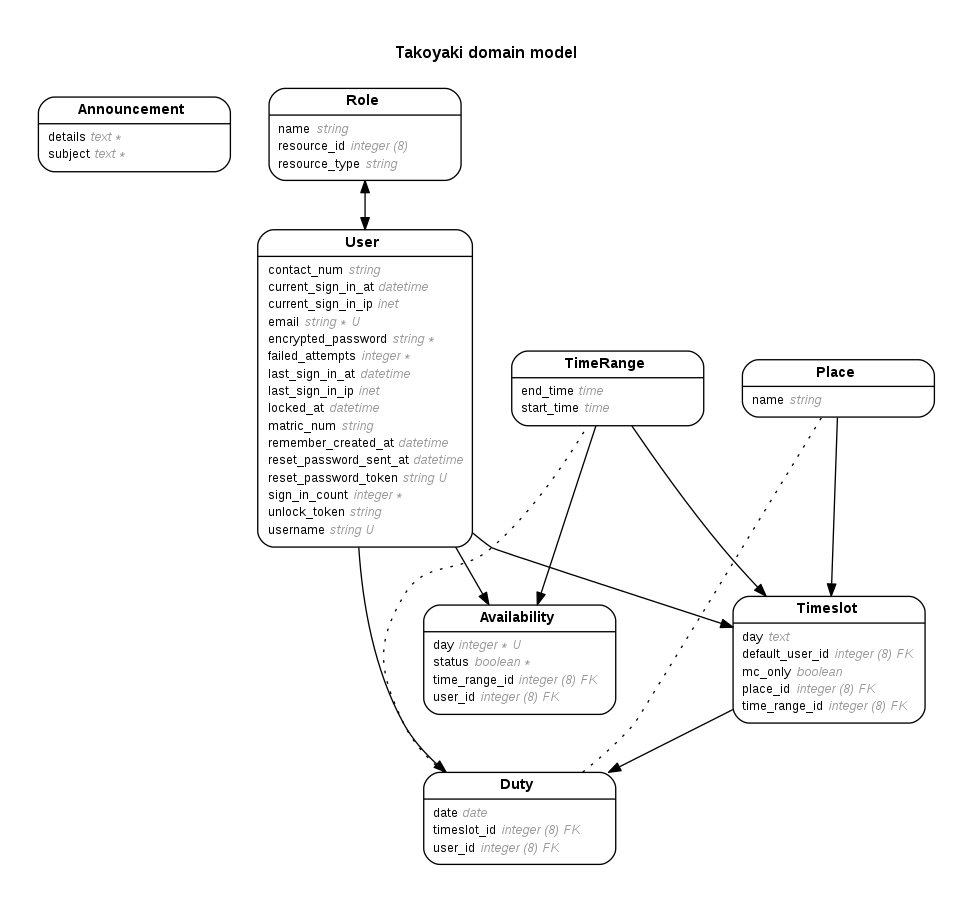
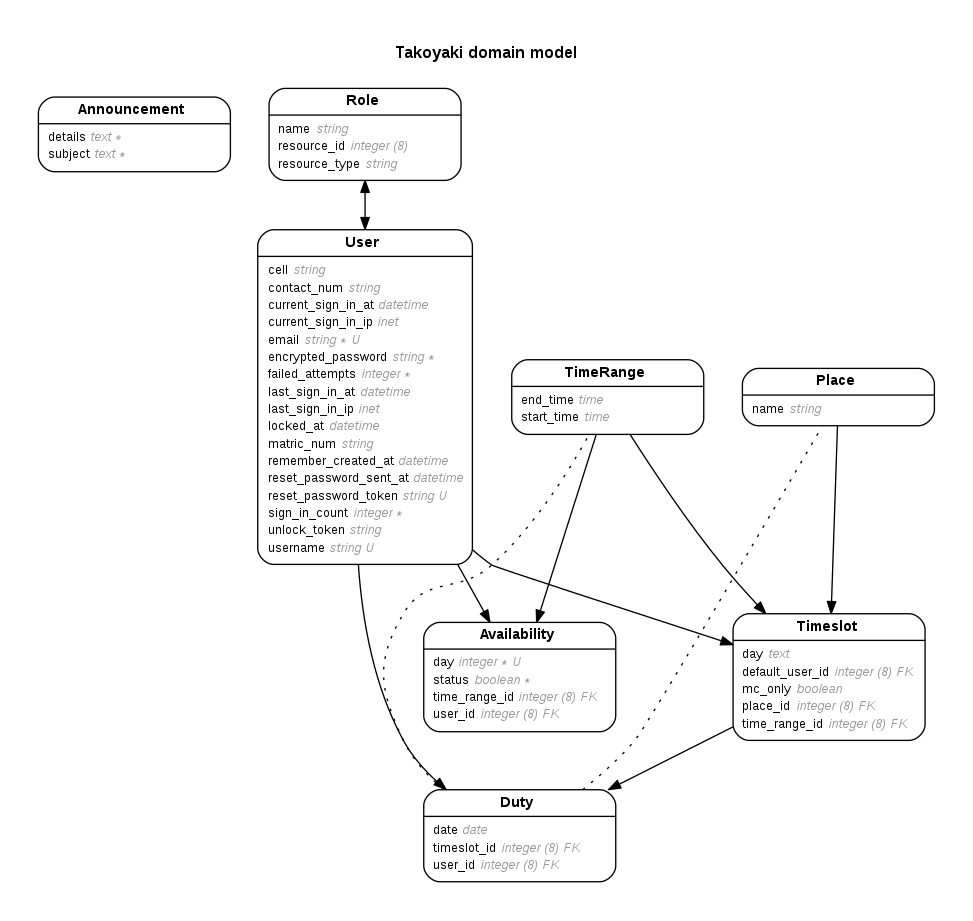
Add migration, cell column to users

diff --git a/db/schema.rb b/db/schema.rb
@@ -10,7 +10,7 @@
 #
 # It's strongly recommended that you check this file into your version control system.
 
-ActiveRecord::Schema.define(version: 20180319073436) do
+ActiveRecord::Schema.define(version: 20180329153937) do
 
   # These are extensions that must be enabled in order to support this database
   enable_extension "plpgsql"
@@ -91,6 +91,7 @@ ActiveRecord::Schema.define(version: 20180319073436) do
     t.string   "username",               :index=>{:name=>"index_users_on_username", :unique=>true}
     t.string   "matric_num"
     t.string   "contact_num"
+    t.string   "cell"
   end
 
   create_table "users_roles", id: false, force: :cascade do |t|

diff --git a/app/models/user.rb b/app/models/user.rb
@@ -23,6 +23,7 @@
 #  username               :string
 #  matric_num             :string
 #  contact_num            :string
+#  cell                   :string
 #
 # Indexes
 #
@@ -40,4 +41,6 @@ class User < ApplicationRecord
   has_many :duties, dependent: :nullify
   has_many :timeslots, foreign_key: :default_user_id, inverse_of: :user,
                        dependent: :nullify
+  enum cell: ['Welfare', 'Training', 'Technical', 'Publicity', 'Presidential',
+              'Marketing', 'Center and Ops']
 end

diff --git a/spec/factories/users.rb b/spec/factories/users.rb
@@ -23,6 +23,7 @@
 #  username               :string
 #  matric_num             :string
 #  contact_num            :string
+#  cell                   :string
 #
 # Indexes
 #

diff --git a/spec/models/user_spec.rb b/spec/models/user_spec.rb
@@ -23,6 +23,7 @@
 #  username               :string
 #  matric_num             :string
 #  contact_num            :string
+#  cell                   :string
 #
 # Indexes
 #

diff --git a/db/migrate/20180329153937_add_cell_to_users.rb b/db/migrate/20180329153937_add_cell_to_users.rb
@@ -1,0 +1,5 @@
+class AddCellToUsers < ActiveRecord::Migration[5.1]
+  def change
+    add_column :users, :cell, :string
+  end
+end
